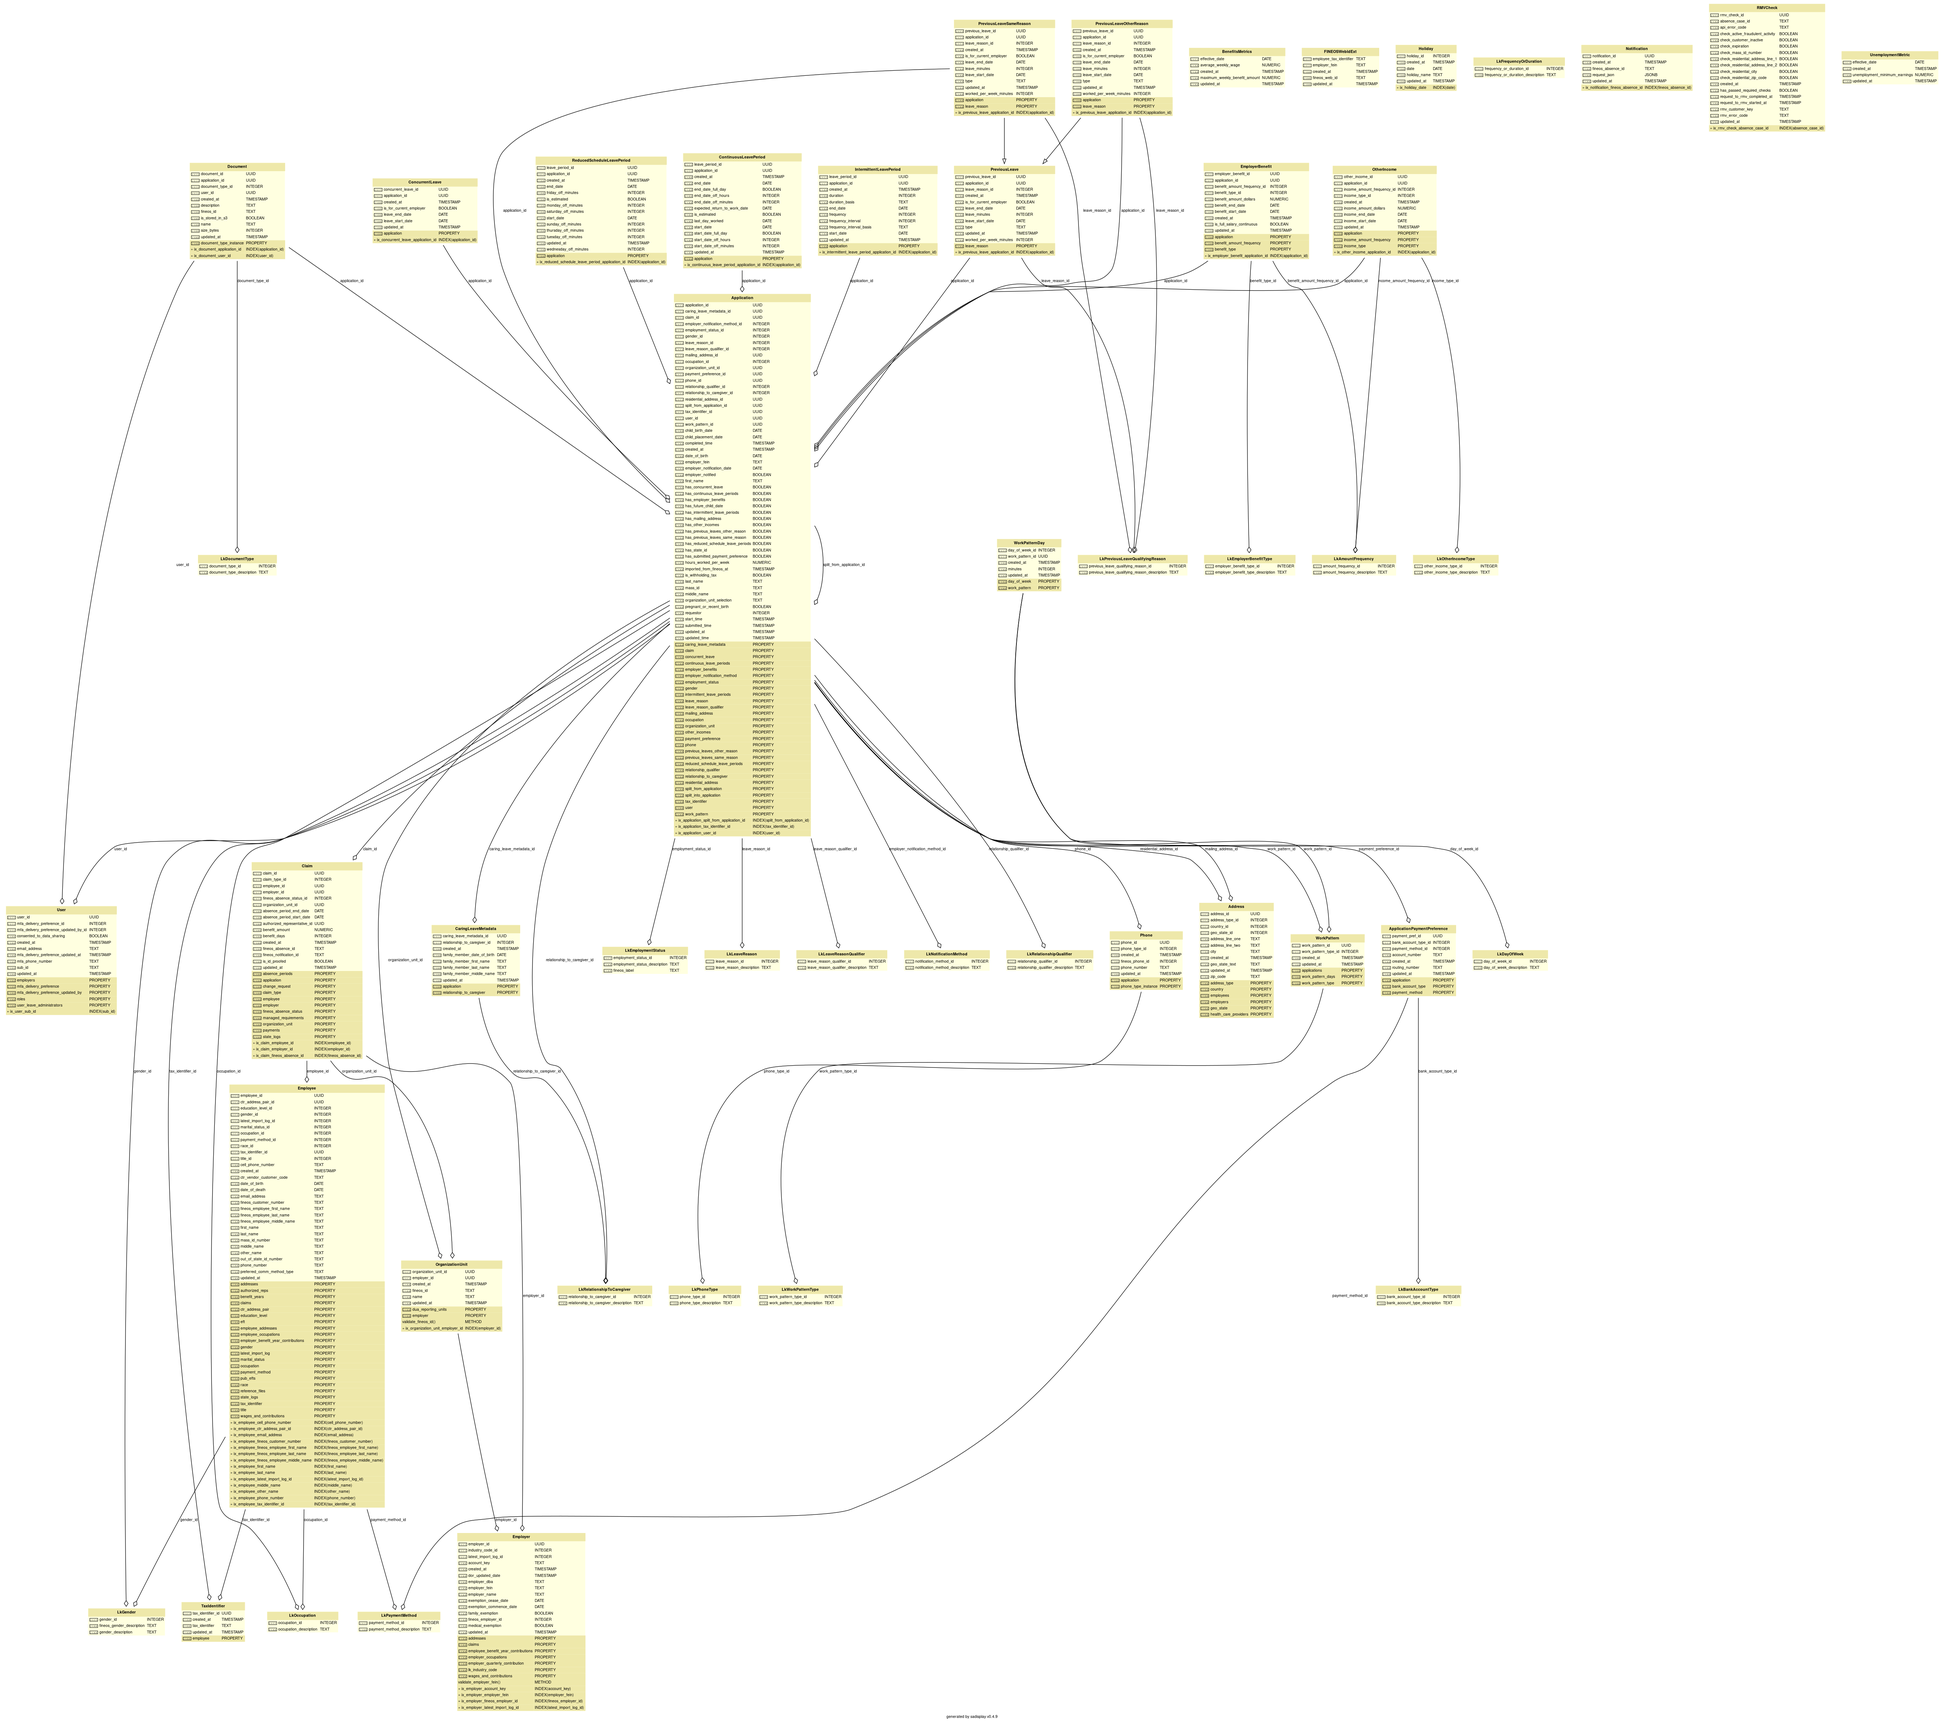
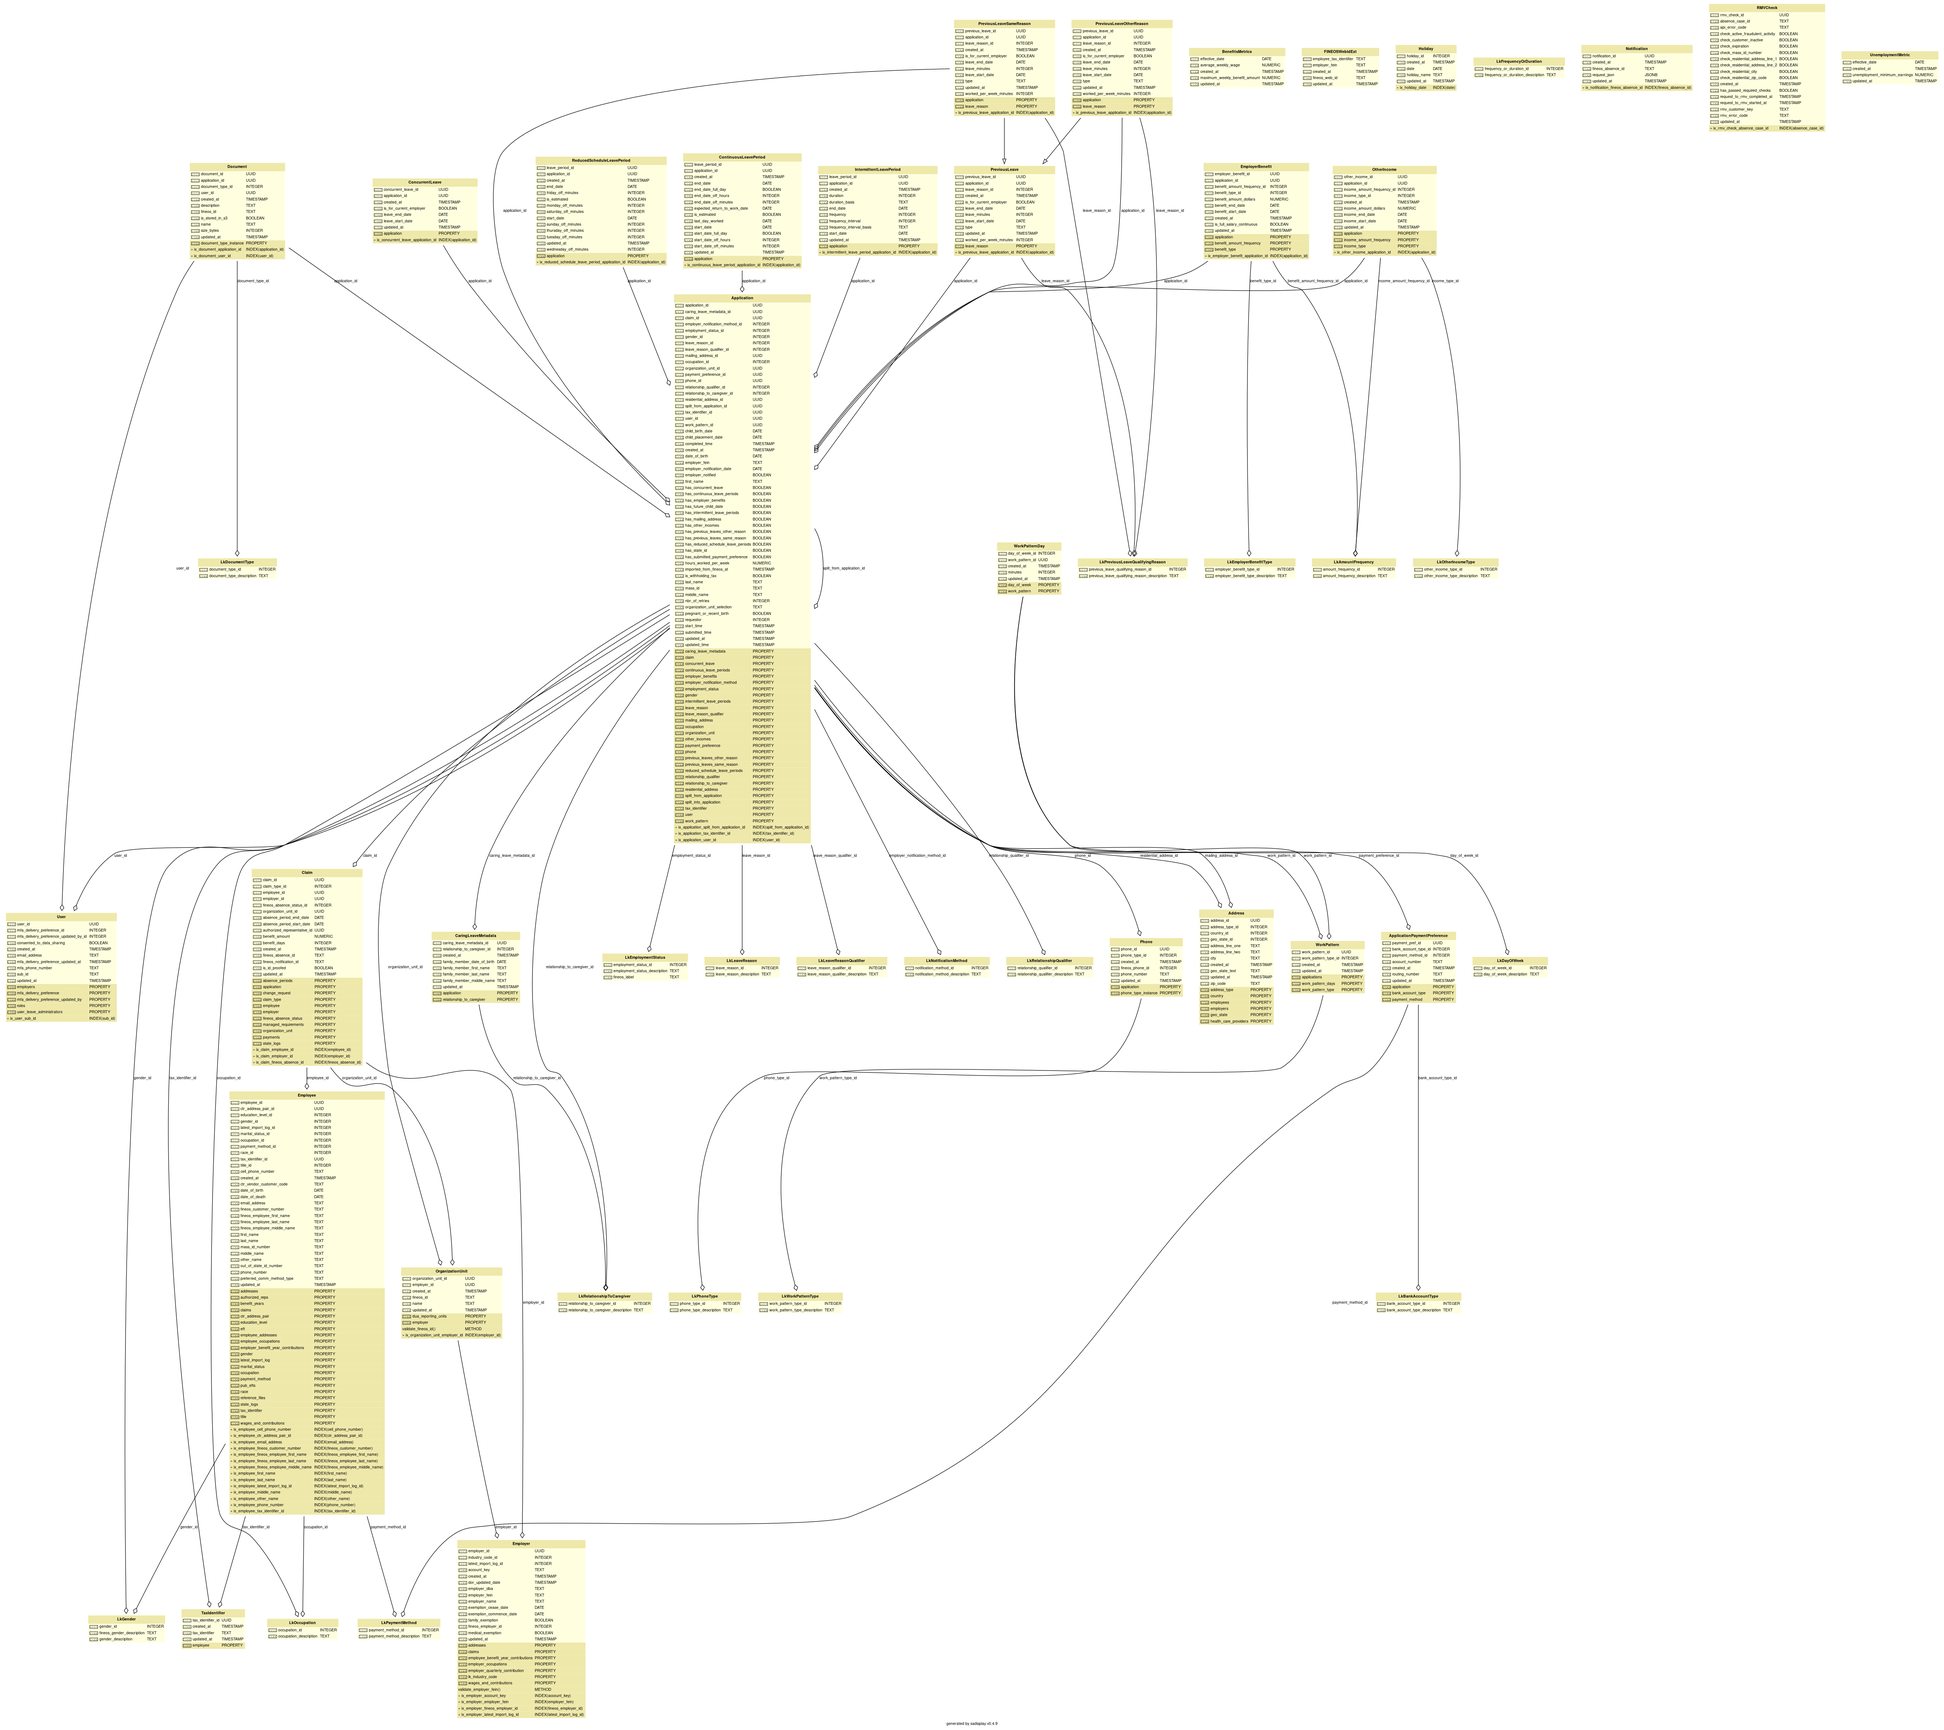
PFMLPB-3095: Add granular error messages for UNF scenarios (#7347)
PFMLPB-3095: Add granular error messages for UNF scenarios (#7347)

https://lwd.atlassian.net/browse/PFMLPB-3095

Added granular error messaging for when a "user not found" scenario occurs.

diff --git a/api/tests/api/test_applications.py b/api/tests/api/test_applications.py
@@ -95,7 +95,7 @@ from massgov.pfml.fineos.models.customer_api.spec import (
     ReadCustomerOccupation,
     TimeOffLeavePeriod,
 )
-from massgov.pfml.util.strings import format_tax_identifier
+from massgov.pfml.util.strings import format_fein, format_tax_identifier
 
 
 def sqlalchemy_object_as_dict(obj):
@@ -1906,6 +1906,99 @@ def test_application_patch_tax_identifier(client, user, auth_token, test_db_sess
     test_db_session.refresh(application)
     assert application.tax_identifier
     assert application.tax_identifier.tax_identifier == "123456789"
+
+
+def test_application_patch_limit_ssn_max_attempts(
+    client, user, limit_ssn_fein_max_attempts, auth_token, test_db_session
+):
+    application = ApplicationFactory.create(
+        user=user, tax_identifier=TaxIdentifierFactory.create(tax_identifier="987654321")
+    )
+    # Make sure the fein doesn't change in between requests,
+    # because it also counts as an attempt
+    initial_fein = application.employer_fein
+
+    # Perform a couple updates to the SSN
+    for new_tax_identifier in ["123-45-6789", "123-45-6788"]:
+        assert application.tax_identifier
+        assert application.tax_identifier.tax_identifier != new_tax_identifier
+
+        response = client.patch(
+            "/v1/applications/{}".format(application.application_id),
+            headers={"Authorization": f"Bearer {auth_token}"},
+            json={"tax_identifier": new_tax_identifier},
+        )
+
+        assert response.status_code == 200
+        assert response.get_json()["data"]["tax_identifier"] == "***-**-" + new_tax_identifier[-4:]
+
+        test_db_session.refresh(application)
+        assert application.tax_identifier
+        assert application.tax_identifier.tax_identifier == new_tax_identifier.replace("-", "")
+        assert application.employer_fein == initial_fein
+
+    # Reached limit SSN max attempts
+    new_tax_identifier = "123-45-6787"
+    assert application.tax_identifier
+    assert application.tax_identifier.tax_identifier != new_tax_identifier
+
+    response = client.patch(
+        "/v1/applications/{}".format(application.application_id),
+        headers={"Authorization": f"Bearer {auth_token}"},
+        json={"tax_identifier": new_tax_identifier},
+    )
+
+    assert response.status_code == 400
+    assert (
+        response.get_json()["data"]["tax_identifier"]
+        == "***-**-" + application.tax_identifier.tax_identifier[-4:]
+    )
+    assert response.get_json()["errors"][0]["rule"] == IssueRule.max_ssn_fein_update_attempts
+    assert application.employer_fein == initial_fein
+
+
+def test_application_patch_limit_fein_max_attempts(
+    client, user, limit_ssn_fein_max_attempts, auth_token, test_db_session
+):
+    application = ApplicationFactory.create(user=user, employer_fein="987654321")
+    # Make sure the ssn doesn't change in between requests,
+    # because it also counts as an attempt
+    initial_tax_identifier = application.tax_identifier.tax_identifier
+
+    # Perform a couple updates to the FEIN
+    for new_employer_fein in ["12-3456789", "12-3456788"]:
+        assert application.employer_fein
+        assert application.employer_fein != new_employer_fein
+
+        response = client.patch(
+            "/v1/applications/{}".format(application.application_id),
+            headers={"Authorization": f"Bearer {auth_token}"},
+            json={"employer_fein": new_employer_fein},
+        )
+
+        assert response.status_code == 200
+        assert response.get_json()["data"]["employer_fein"] == new_employer_fein
+
+        test_db_session.refresh(application)
+        assert application.employer_fein
+        assert application.employer_fein == new_employer_fein.replace("-", "")
+        assert application.tax_identifier.tax_identifier == initial_tax_identifier
+
+    # Reached limit FEIN max attempts
+    new_employer_fein = "12-3456787"
+    assert application.employer_fein
+    assert application.employer_fein != new_employer_fein
+
+    response = client.patch(
+        "/v1/applications/{}".format(application.application_id),
+        headers={"Authorization": f"Bearer {auth_token}"},
+        json={"employer_fein": new_employer_fein},
+    )
+
+    assert response.status_code == 400
+    assert response.get_json()["data"]["employer_fein"] == format_fein(application.employer_fein)
+    assert response.get_json()["errors"][0]["rule"] == IssueRule.max_ssn_fein_update_attempts
+    assert application.tax_identifier.tax_identifier == initial_tax_identifier
 
 
 def test_application_patch_masked_tax_id_has_no_effect(client, user, auth_token, test_db_session):

diff --git a/api/massgov/pfml/api/applications.py b/api/massgov/pfml/api/applications.py
@@ -49,6 +49,7 @@ from massgov.pfml.api.validation.employment_validator import (
     get_contributing_employer_or_employee_issue,
 )
 from massgov.pfml.api.validation.exceptions import (
+    IssueRule,
     IssueType,
     ValidationErrorDetail,
     ValidationException,
@@ -287,11 +288,31 @@ def applications_update(application_id):
             data=ApplicationResponse.from_orm(existing_application).dict(exclude_none=True),
         ).to_api_response()
 
+    if existing_application.nbr_of_retries >= app.get_config().limit_ssn_fein_max_attempts:
+        message = "Application {} could not be updated. Maximum number of attempts reached.".format(
+            existing_application.application_id
+        )
+        return response_util.error_response(
+            status_code=BadRequest,
+            message=message,
+            errors=[
+                ValidationErrorDetail(
+                    type=IssueType.maximum,
+                    rule=IssueRule.max_ssn_fein_update_attempts,
+                    message=message,
+                )
+            ],
+            data=ApplicationResponse.from_orm(existing_application).dict(exclude_none=True),
+        ).to_api_response()
+
     updated_body = applications_service.remove_masked_fields_from_request(
         body, existing_application
     )
 
     application_request = ApplicationRequestBody.parse_obj(updated_body)
+
+    previous_tax_identifier = existing_application.tax_identifier.tax_identifier
+    previous_fein = existing_application.employer_fein
 
     with app.db_session() as db_session:
         applications_service.update_from_request(
@@ -303,13 +324,30 @@ def applications_update(application_id):
         db_session, existing_application.employer_fein, existing_application.tax_identifier
     )
 
-    if employer_issue:
-        issues.append(employer_issue)
-
     # Set log attributes to the updated attributes rather than the previous attributes
     # Also, calling get_application_log_attributes too early causes the application not to update properly for some reason
     # See https://github.com/EOLWD/pfml/pull/2601
     log_attributes = get_application_log_attributes(existing_application)
+
+    if employer_issue:
+        issues.append(employer_issue)
+
+        # If either SSN or FEIN have been recently updated
+        # and an "employer_issue" occurred, it counts as an attempt
+        if (
+            application_request.tax_identifier is not None
+            and previous_tax_identifier != application_request.tax_identifier
+        ) or (
+            application_request.employer_fein is not None
+            and previous_fein != application_request.employer_fein
+        ):
+            existing_application.nbr_of_retries += 1
+            with app.db_session() as db_session:
+                db_session.add(existing_application)
+                db_session.commit()
+                db_session.refresh(existing_application)
+            logger.info("User attempted new combination of SSN/FEIN", extra=log_attributes)
+
     logger.info("applications_update success", extra=log_attributes)
 
     return response_util.success_response(

diff --git a/api/massgov/pfml/api/validation/employment_validator.py b/api/massgov/pfml/api/validation/employment_validator.py
@@ -25,13 +25,28 @@ def get_contributing_employer_or_employee_issue(
             .one_or_none()
         )
 
-        # Employer was not in DOR data, or we haven't yet created the corresponding record in FINEOS
-        if employer is None or employer.fineos_employer_id is None:
+        require_employer_issue = ValidationErrorDetail(
+            field="employer_fein",
+            type=IssueType.require_contributing_employer,
+            message="Confirm that you have the correct EIN, and that the Employer is contributing to Paid Family and Medical Leave.",
+        )
+
+        # If this employer does not exist in our database
+        if employer is None:
+            return require_employer_issue
+
+        # If the employer is fully exempt, they'll likely have a private plan
+        # And cannot apply to the PFML program at this time
+        if employer.family_exemption and employer.medical_exemption:
             return ValidationErrorDetail(
                 field="employer_fein",
-                type=IssueType.require_contributing_employer,
-                message="Confirm that you have the correct EIN, and that the Employer is contributing to Paid Family and Medical Leave.",
+                type=IssueType.require_non_exempt_employer,
+                message=require_employer_issue.message,
             )
+
+        # Employer was not in DOR data, or we haven't yet created the corresponding record in FINEOS
+        if employer.fineos_employer_id is None:
+            return require_employer_issue
 
         # Requiring a tax identifier be present is handled by a separate validation rule.
         if maybe_tax_identifier is not None and not employee_has_wages_from_employer(

diff --git a/api/tests/api/validation/test_employment_validator.py b/api/tests/api/validation/test_employment_validator.py
@@ -1,3 +1,5 @@
+from datetime import datetime
+
 from massgov.pfml.api.validation.employment_validator import (
     get_contributing_employer_or_employee_issue,
 )
@@ -57,6 +59,29 @@ def test_employer_with_fineos_id_is_required(test_db_session, initialize_factori
     assert issue == ValidationErrorDetail(
         field="employer_fein",
         type=IssueType.require_contributing_employer,
+        message="Confirm that you have the correct EIN, and that the Employer is contributing to Paid Family and Medical Leave.",
+    )
+
+
+def test_employer_is_not_fully_exempt(test_db_session, initialize_factories_session):
+    # Validation issue when Employer exists, but it's fully exempt
+    # DOR has a 'magic date' of 12/31/9999 if employer has no exemptions.
+    # This date is used for simplicity as it doesn't really matter here.
+    exemption_date = datetime.strptime("12/31/9999", "%m/%d/%Y").date()
+    employer = EmployerFactory.create(
+        family_exemption=True,
+        medical_exemption=True,
+        exemption_commence_date=exemption_date,
+        exemption_cease_date=exemption_date,
+    )
+
+    issue = get_contributing_employer_or_employee_issue(
+        test_db_session, employer.employer_fein, None
+    )
+
+    assert issue == ValidationErrorDetail(
+        field="employer_fein",
+        type=IssueType.require_non_exempt_employer,
         message="Confirm that you have the correct EIN, and that the Employer is contributing to Paid Family and Medical Leave.",
     )
 

diff --git a/api/massgov/pfml/api/validation/exceptions.py b/api/massgov/pfml/api/validation/exceptions.py
@@ -67,6 +67,8 @@ class IssueRule(str, Enum):
     # Disallow suspicious attempts for potential fraud cases.
     # Intentionally vague to avoid leaking this is for fraud prevention
     disallow_attempts = "disallow_attempts"
+    # Restrict claimants from trying several SSN/FEIN combinations
+    max_ssn_fein_update_attempts = "max_ssn_fein_update_attempts"
     # Employee must have wages from the Employer
     require_employee = "require_employee"
 
@@ -152,6 +154,8 @@ class IssueType(str, Enum):
     require_employer = "require_employer"
     # Employer record must exist in the API and FINEOS
     require_contributing_employer = "require_contributing_employer"
+    # Employer must not be fully exempt.
+    require_non_exempt_employer = "require_non_exempt_employer"
     # Data failed a checksum test e.g. Routing number
     checksum = "checksum"
     # Employer can't be verified because there's nothing to verify against

diff --git a/api/massgov/pfml/db/migrations/versions/2022_04_05_14_18_10_3fbc57dc3880_add_ssn_fein_max_attempts.py b/api/massgov/pfml/db/migrations/versions/2022_04_05_14_18_10_3fbc57dc3880_add_ssn_fein_max_attempts.py
@@ -1,0 +1,30 @@
+"""Add ssn fein max attempts
+
+Revision ID: 3fbc57dc3880
+Revises: e294fb147db0
+Create Date: 2022-04-05 14:18:10.329237
+
+"""
+import sqlalchemy as sa
+from alembic import op
+
+# revision identifiers, used by Alembic.
+revision = "3fbc57dc3880"
+down_revision = "e294fb147db0"
+branch_labels = None
+depends_on = None
+
+
+def upgrade():
+    # Manually added server_default="0"
+    # ### commands auto generated by Alembic - please adjust! ###
+    op.add_column(
+        "application", sa.Column("nbr_of_retries", sa.Integer(), nullable=False, server_default="0")
+    )
+    # ### end Alembic commands ###
+
+
+def downgrade():
+    # ### commands auto generated by Alembic - please adjust! ###
+    op.drop_column("application", "nbr_of_retries")
+    # ### end Alembic commands ###

diff --git a/api/massgov/pfml/db/models/applications.py b/api/massgov/pfml/db/models/applications.py
@@ -346,6 +346,8 @@ class Application(Base, TimestampMixin):
         index=True,
     )
 
+    nbr_of_retries = Column(Integer, nullable=False, default=0)
+
     user = relationship(User)
     caring_leave_metadata = relationship("CaringLeaveMetadata", back_populates="application")
     claim = relationship(Claim, backref=backref("application", uselist=False))

diff --git a/api/tests/conftest.py b/api/tests/conftest.py
@@ -244,6 +244,12 @@ def enable_application_fraud_check(monkeypatch):
 
 
 @pytest.fixture
+def limit_ssn_fein_max_attempts(monkeypatch):
+    new_env = monkeypatch.setenv("LIMIT_SSN_FEIN_MAX_ATTEMPTS", "2")
+    return new_env
+
+
+@pytest.fixture
 def consented_user_claims(consented_user):
     claims = {
         "a": "b",
